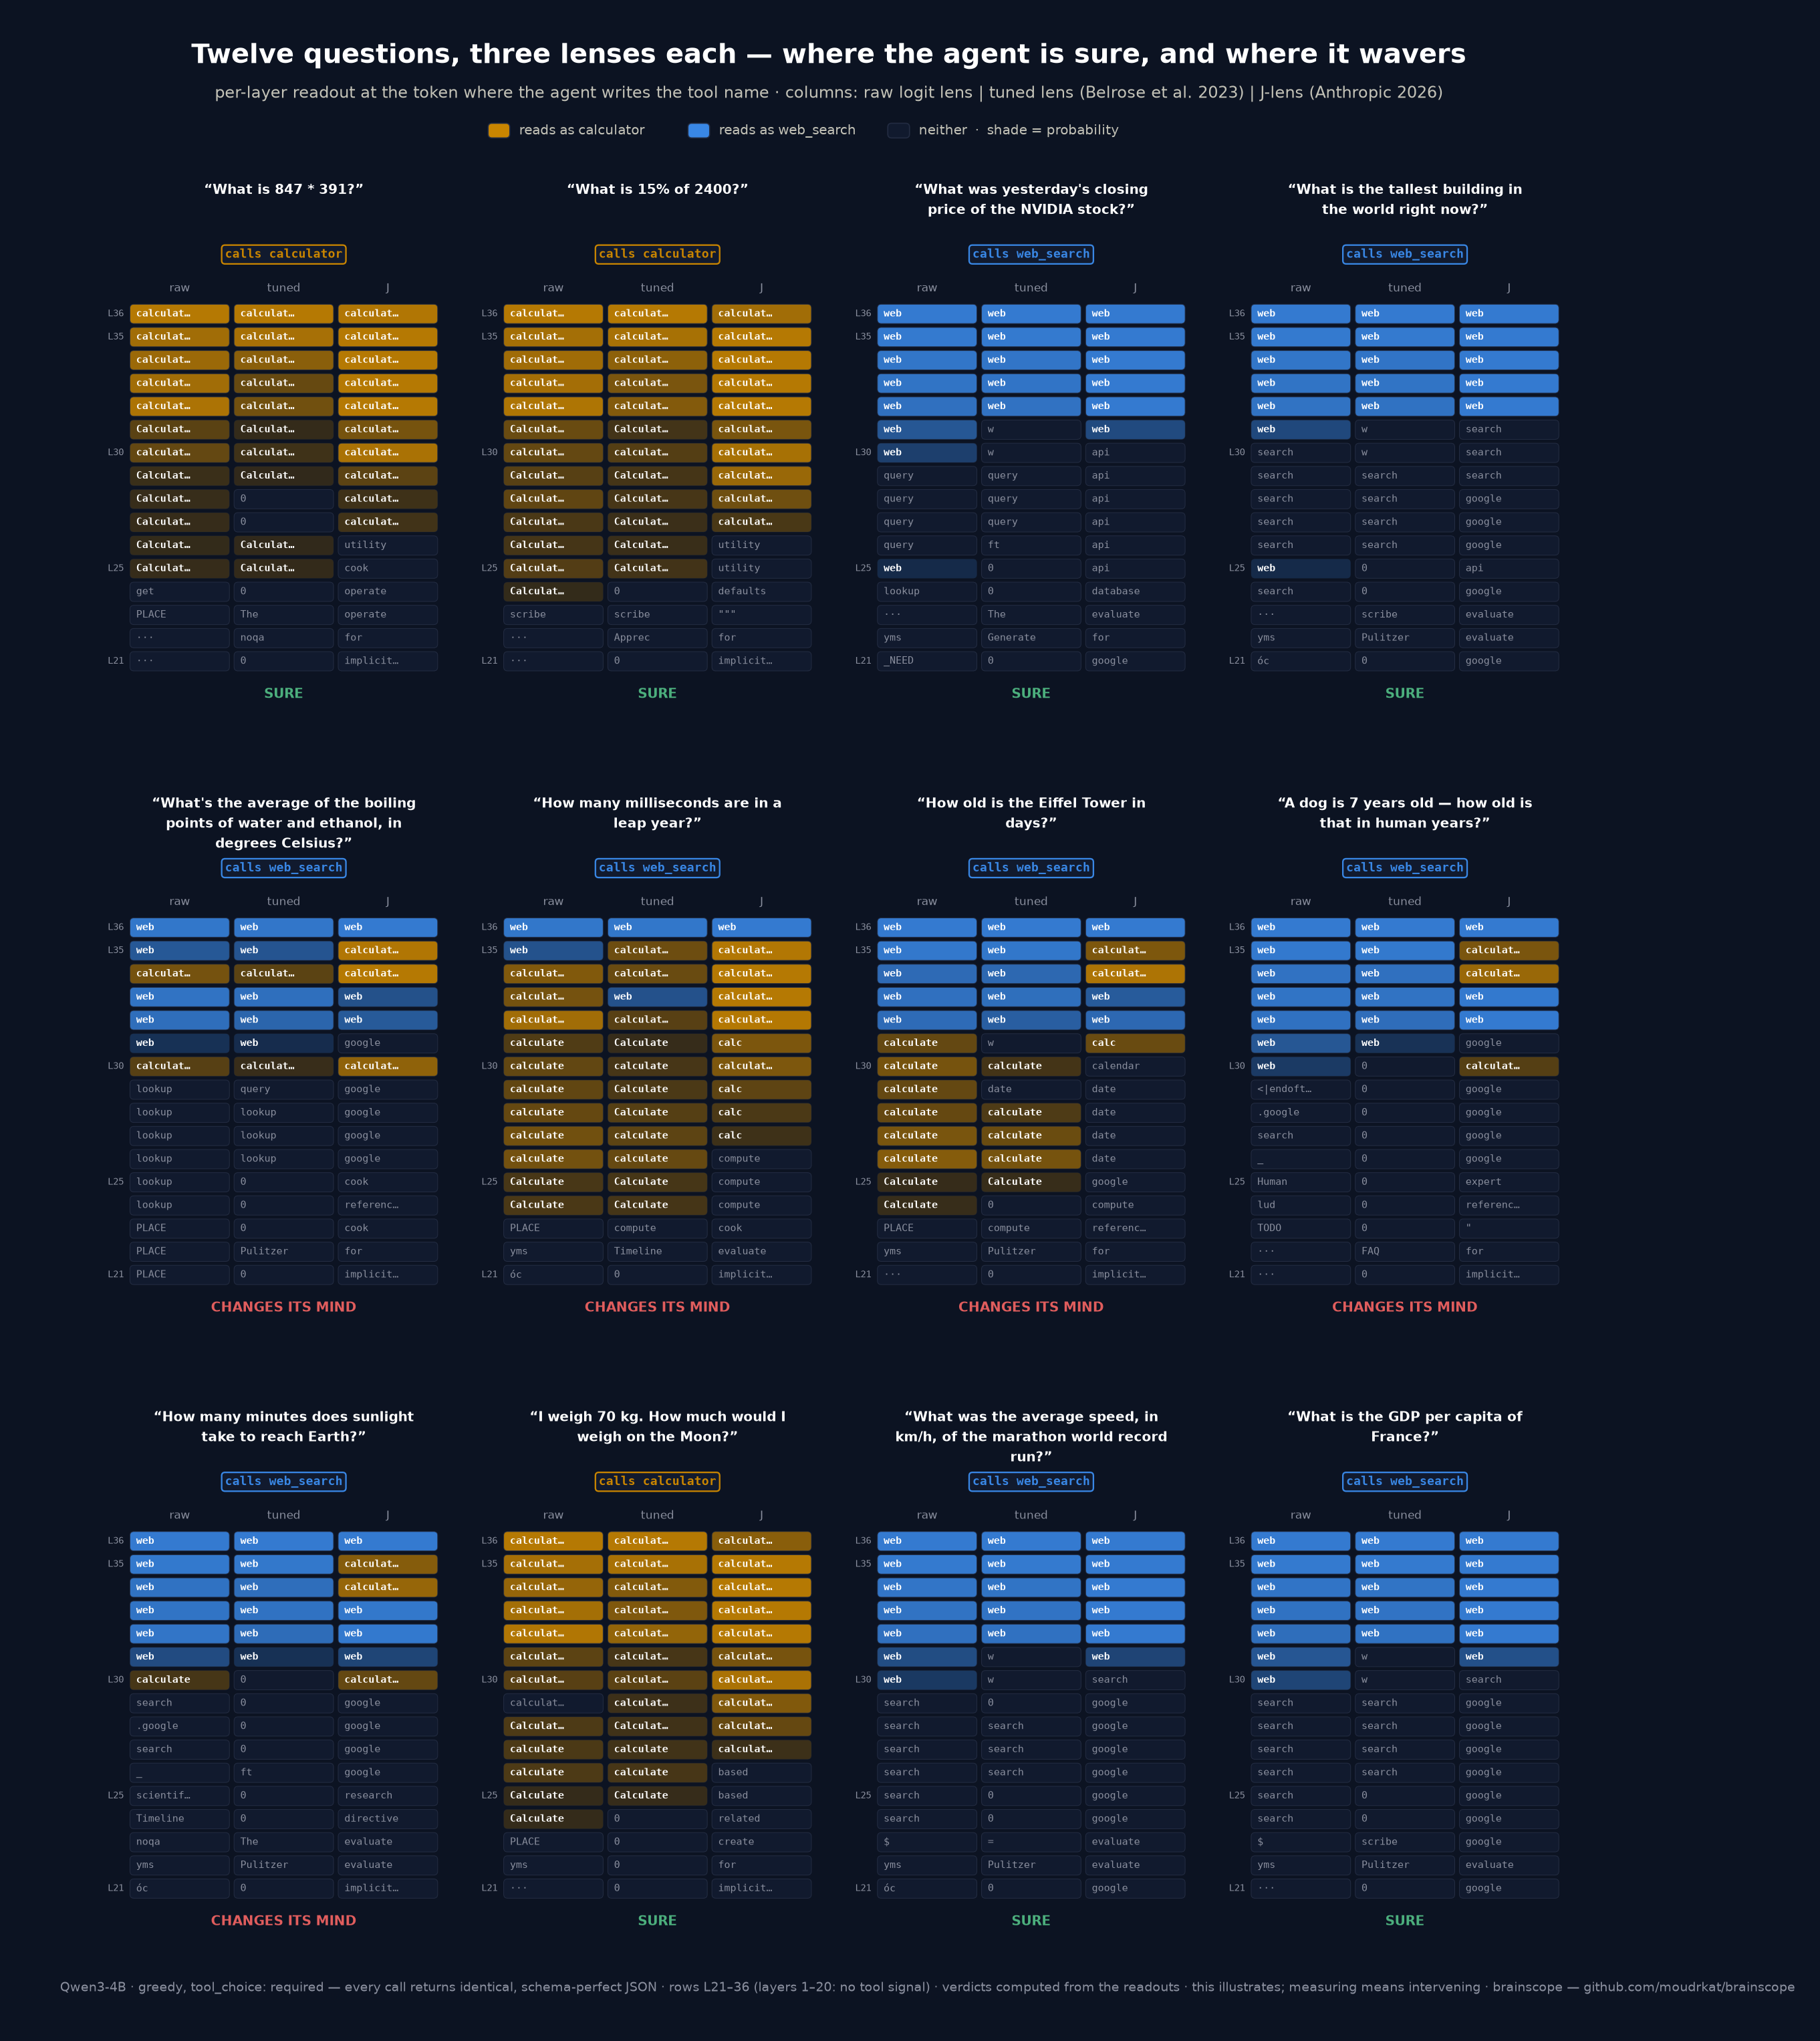
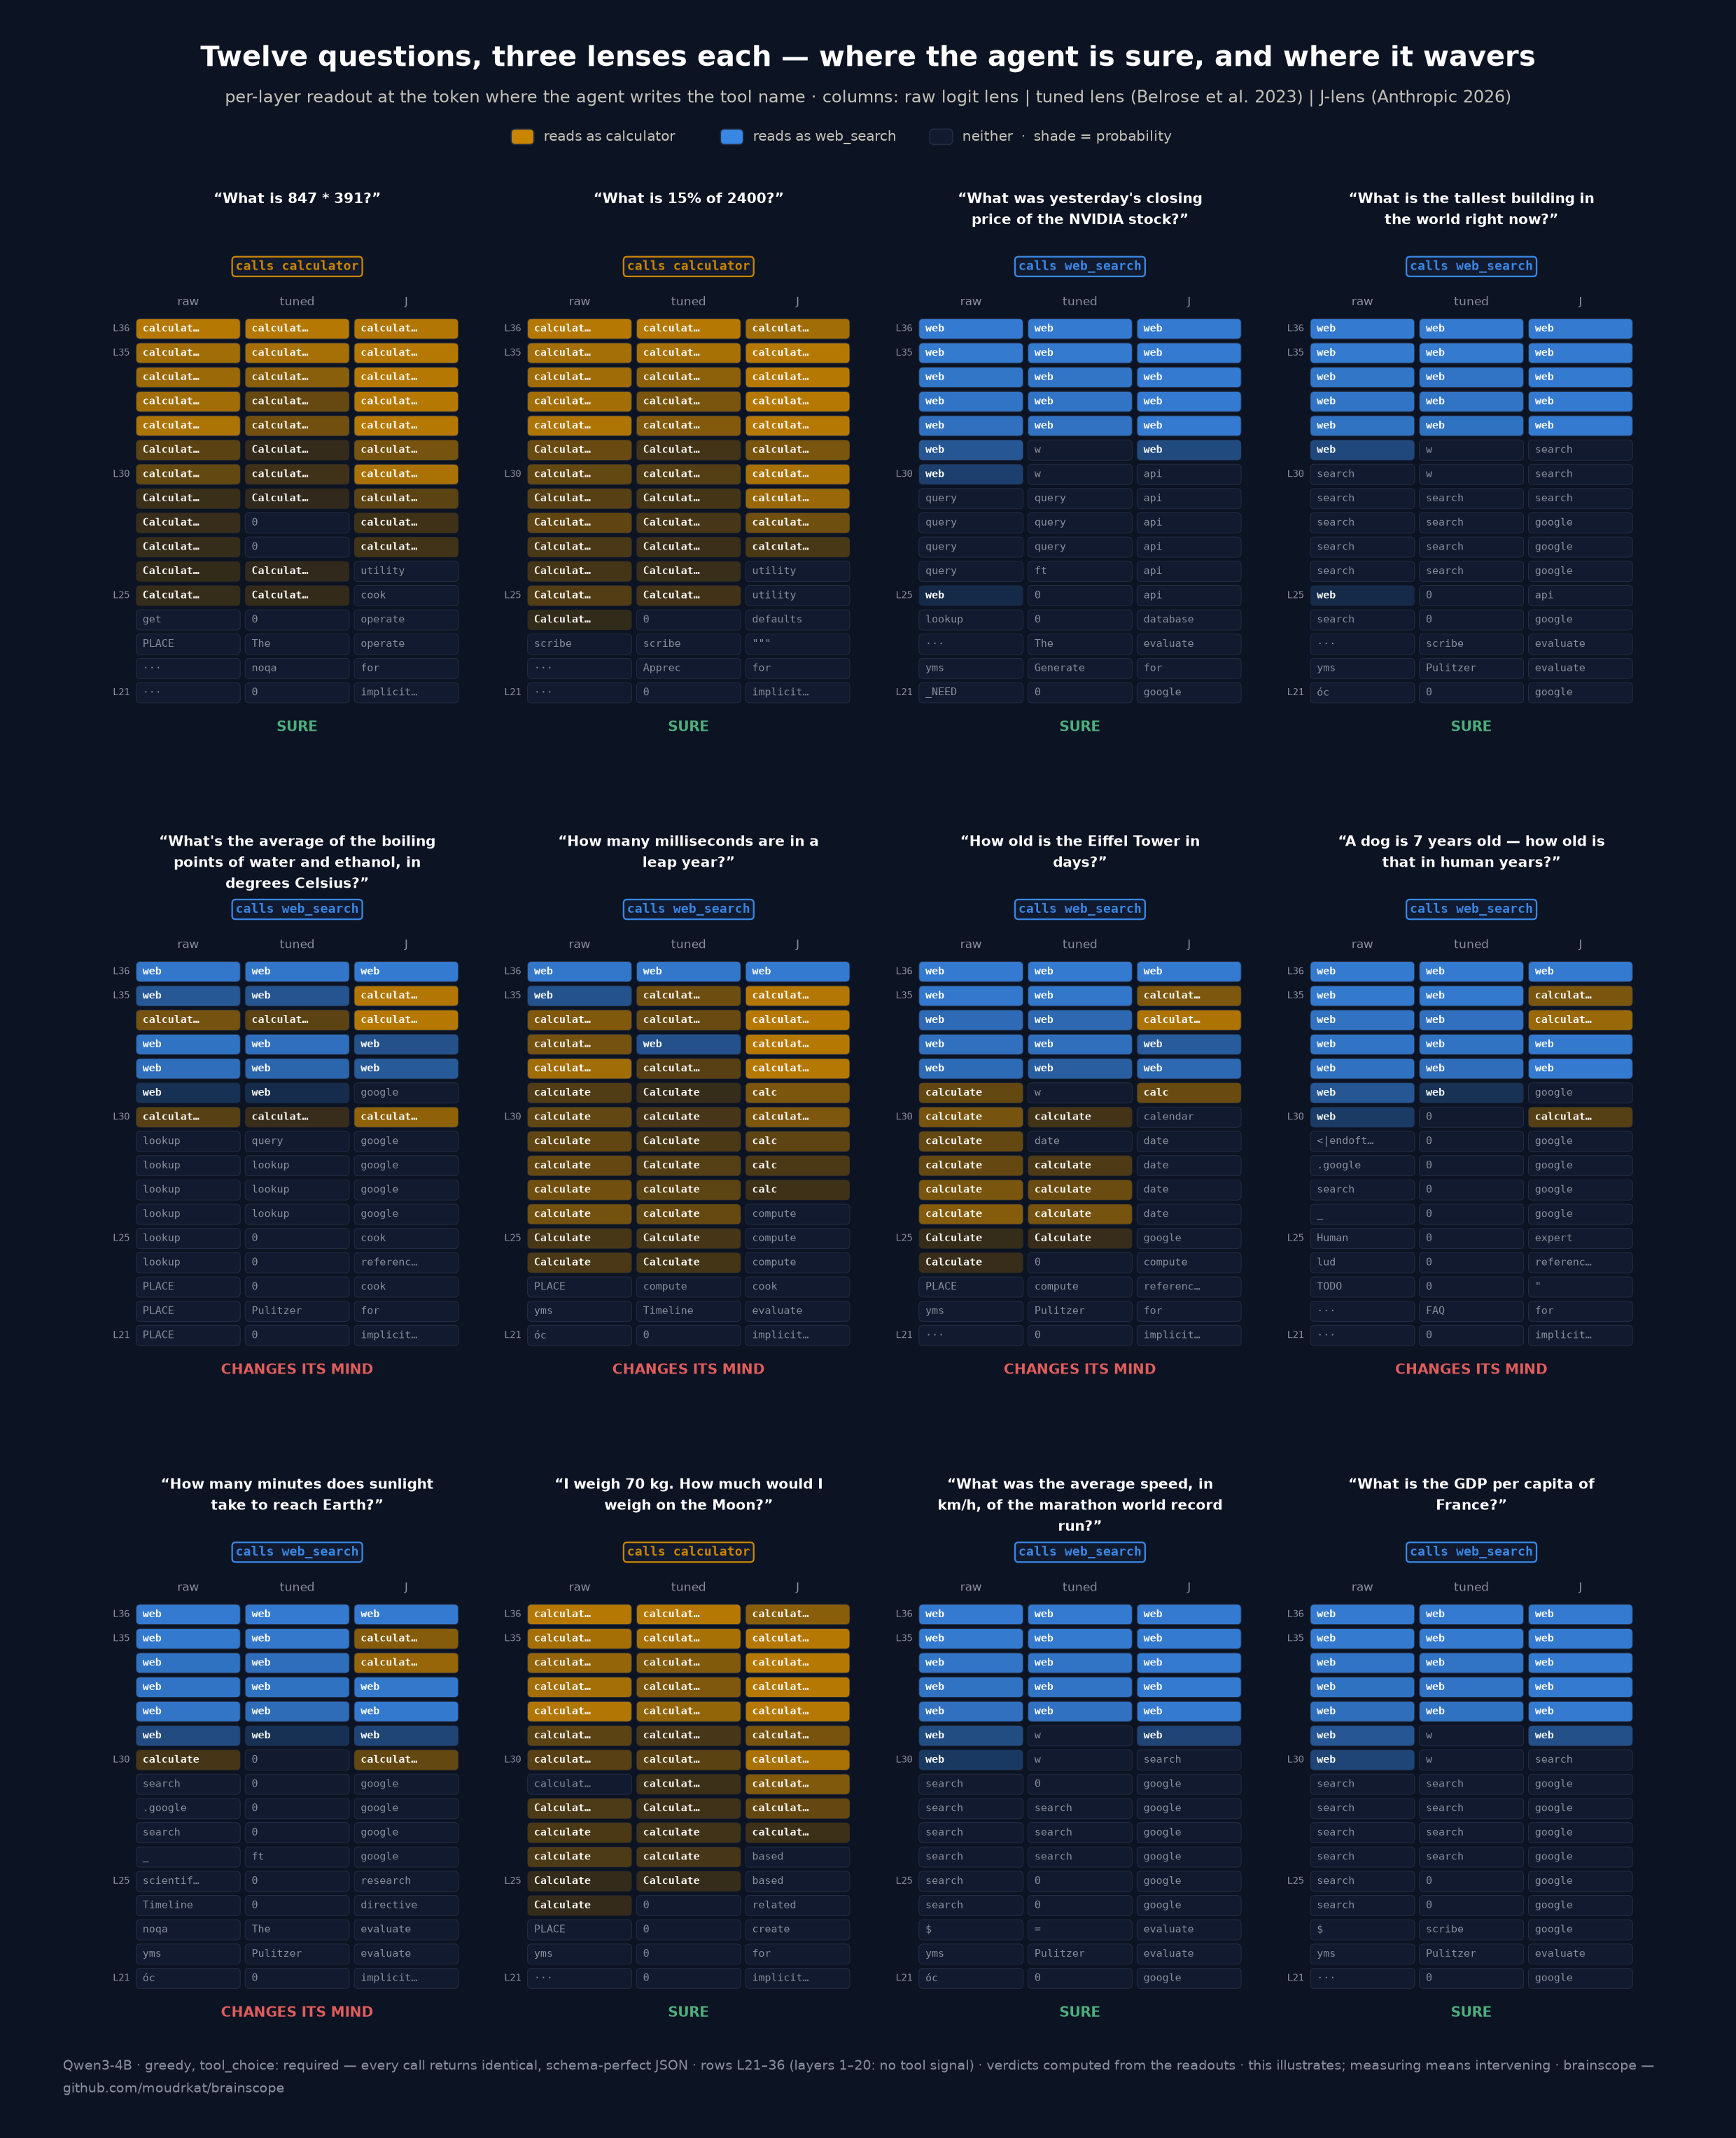
single-lens gallery variants (logit|tuned|jlens), per-lens verdicts; footer wrap

diff --git a/fig/render_gallery.py b/fig/render_gallery.py
@@ -2,6 +2,9 @@
 verdict per case computed from the data. Run fig/extract.py and
 fig/tlens_extract.py first, merge into figdata_gallery.json, then:
 uv run --with matplotlib --no-project python3 fig/render_gallery.py [cz]
+
+Single-lens variants (verdicts then use only the shown lens):
+uv run --with matplotlib --no-project python3 fig/render_gallery.py [cz] logit|tuned|jlens
 """
 import json
 import sys
@@ -51,7 +54,24 @@ if CZ:
                 "tohle ilustruje; měřit znamená zasáhnout · brainscope — github.com/moudrkat/brainscope",
     }
 
-KEYS = ["lens", "tlens", "jlens"]
+ONLY = next((a for a in sys.argv[1:] if a in ("logit", "tuned", "jlens")), None)
+KEYS = {"logit": ["lens"], "tuned": ["tlens"], "jlens": ["jlens"]}[ONLY] if ONLY \
+    else ["lens", "tlens", "jlens"]
+if ONLY:
+    SOLO = {
+        "logit": ("raw logit lens", "what each layer would say if generation stopped there",
+                  "raw logit lens", "co by každá vrstva řekla, kdyby generování skončilo tam"),
+        "tuned": ("tuned lens (Belrose et al. 2023)", "the logit lens with trained per-layer corrections",
+                  "tuned lens (Belrose et al. 2023)", "logit lens s natrénovanou korekcí po vrstvách"),
+        "jlens": ("J-lens (Anthropic 2026)", "what each layer pushes the model to say later",
+                  "J-lens (Anthropic 2026)", "k čemu každá vrstva tlačí model později"),
+    }[ONLY]
+    T["title"] = ("Twelve questions through the " if not CZ else "Dvanáct otázek přes ") \
+        + (SOLO[0] if not CZ else SOLO[2])
+    T["subtitle"] = ("per-layer readout at the token where the agent writes the tool name · "
+                     if not CZ else
+                     "čtení po vrstvách na tokenu, kde agent píše jméno toolu · ") \
+        + (SOLO[1] if not CZ else SOLO[3])
 
 
 def classify(tok: str) -> str | None:
@@ -93,9 +113,10 @@ ORDER = [c for c in (
 NCOL = 4
 NROW = (len(ORDER) + NCOL - 1) // NCOL
 
-COL_W, CELL_H = 1.28, 0.30
+COL_W, CELL_H = (2.2, 0.30) if ONLY else (1.28, 0.30)
 PANEL_W = len(KEYS) * COL_W + (len(KEYS) - 1) * 0.06
-PANEL_GAP_X, PANEL_GAP_Y = 0.85, 1.05
+PANEL_GAP_X, PANEL_GAP_Y = (1.5, 1.05) if ONLY else (0.85, 1.05)
+QWRAP = 30 if ONLY else 34
 HEAD_H = 1.55                                # question + chip + col labels
 GRID_H = len(LAYERS) * CELL_H
 PANEL_H = HEAD_H + GRID_H + 0.55             # + verdict line
@@ -136,7 +157,7 @@ for idx, case in enumerate(ORDER):
     gy = py + 0.55                            # grid bottom
     gt = gy + GRID_H                          # grid top
 
-    qlines = textwrap.wrap("“" + d["q"] + "”", 34)[:3]
+    qlines = textwrap.wrap("“" + d["q"] + "”", QWRAP)[:3]
     for li, line in enumerate(qlines):
         ax.text(px + PANEL_W / 2, gt + HEAD_H - 0.10 - li * 0.26, line,
                 ha="center", va="center", color=INK, fontsize=9.5,
@@ -151,8 +172,9 @@ for idx, case in enumerate(ORDER):
 
     for ci, key in enumerate(KEYS):
         cx = px + ci * (COL_W + 0.06)
-        ax.text(cx + COL_W / 2, gt + 0.18, T["cols"][ci], ha="center",
-                va="center", color=MUTED, fontsize=8, family="sans-serif")
+        if not ONLY:
+            ax.text(cx + COL_W / 2, gt + 0.18, T["cols"][ci], ha="center",
+                    va="center", color=MUTED, fontsize=8, family="sans-serif")
         for r, layer in enumerate(LAYERS):
             y = gy + r * CELL_H
             e = d[key][layer][0]
@@ -171,8 +193,12 @@ for idx, case in enumerate(ORDER):
             tok = e["t"].strip()
             if not all(ord(c) < 0x2500 for c in tok):
                 tok = "···"
-            if len(tok) > 9:
-                tok = tok[:8] + "…"
+            maxlen = 13 if ONLY else 9
+            if len(tok) > maxlen:
+                tok = tok[:maxlen - 1] + "…"
+            if ONLY and tool and p >= 0.3:
+                ax.text(cx + COL_W - 0.08, y + CELL_H / 2, f"{p:.2f}", ha="right",
+                        va="center", color=tc, fontsize=6.5, family="monospace", alpha=0.85)
             ax.text(cx + 0.08, y + CELL_H / 2, tok, ha="left", va="center",
                     color=tc, fontsize=7, family="monospace",
                     fontweight="bold" if tool else "normal")
@@ -187,8 +213,9 @@ for idx, case in enumerate(ORDER):
     ax.text(px + PANEL_W / 2, gy - 0.28, label, ha="center", va="center",
             color=vc, fontsize=9.5, family="sans-serif", fontweight="bold")
 
-ax.text(x00 - 0.9, 0.32, T["foot"], color=MUTED, fontsize=9, family="sans-serif")
+for fi, fline in enumerate(textwrap.wrap(T["foot"], int((fig_w - 1.2) / 0.075))):
+    ax.text(x00 - 0.9, 0.52 - fi * 0.28, fline, color=MUTED, fontsize=9, family="sans-serif")
 
-name = "fig_gallery_" + ("cz" if CZ else "en")
+name = "fig_gallery_" + (ONLY + "_" if ONLY else "") + ("cz" if CZ else "en")
 fig.savefig(f"{SCRATCH}/{name}.png", facecolor=PAGE, bbox_inches="tight", pad_inches=0.25)
 print("saved", name)